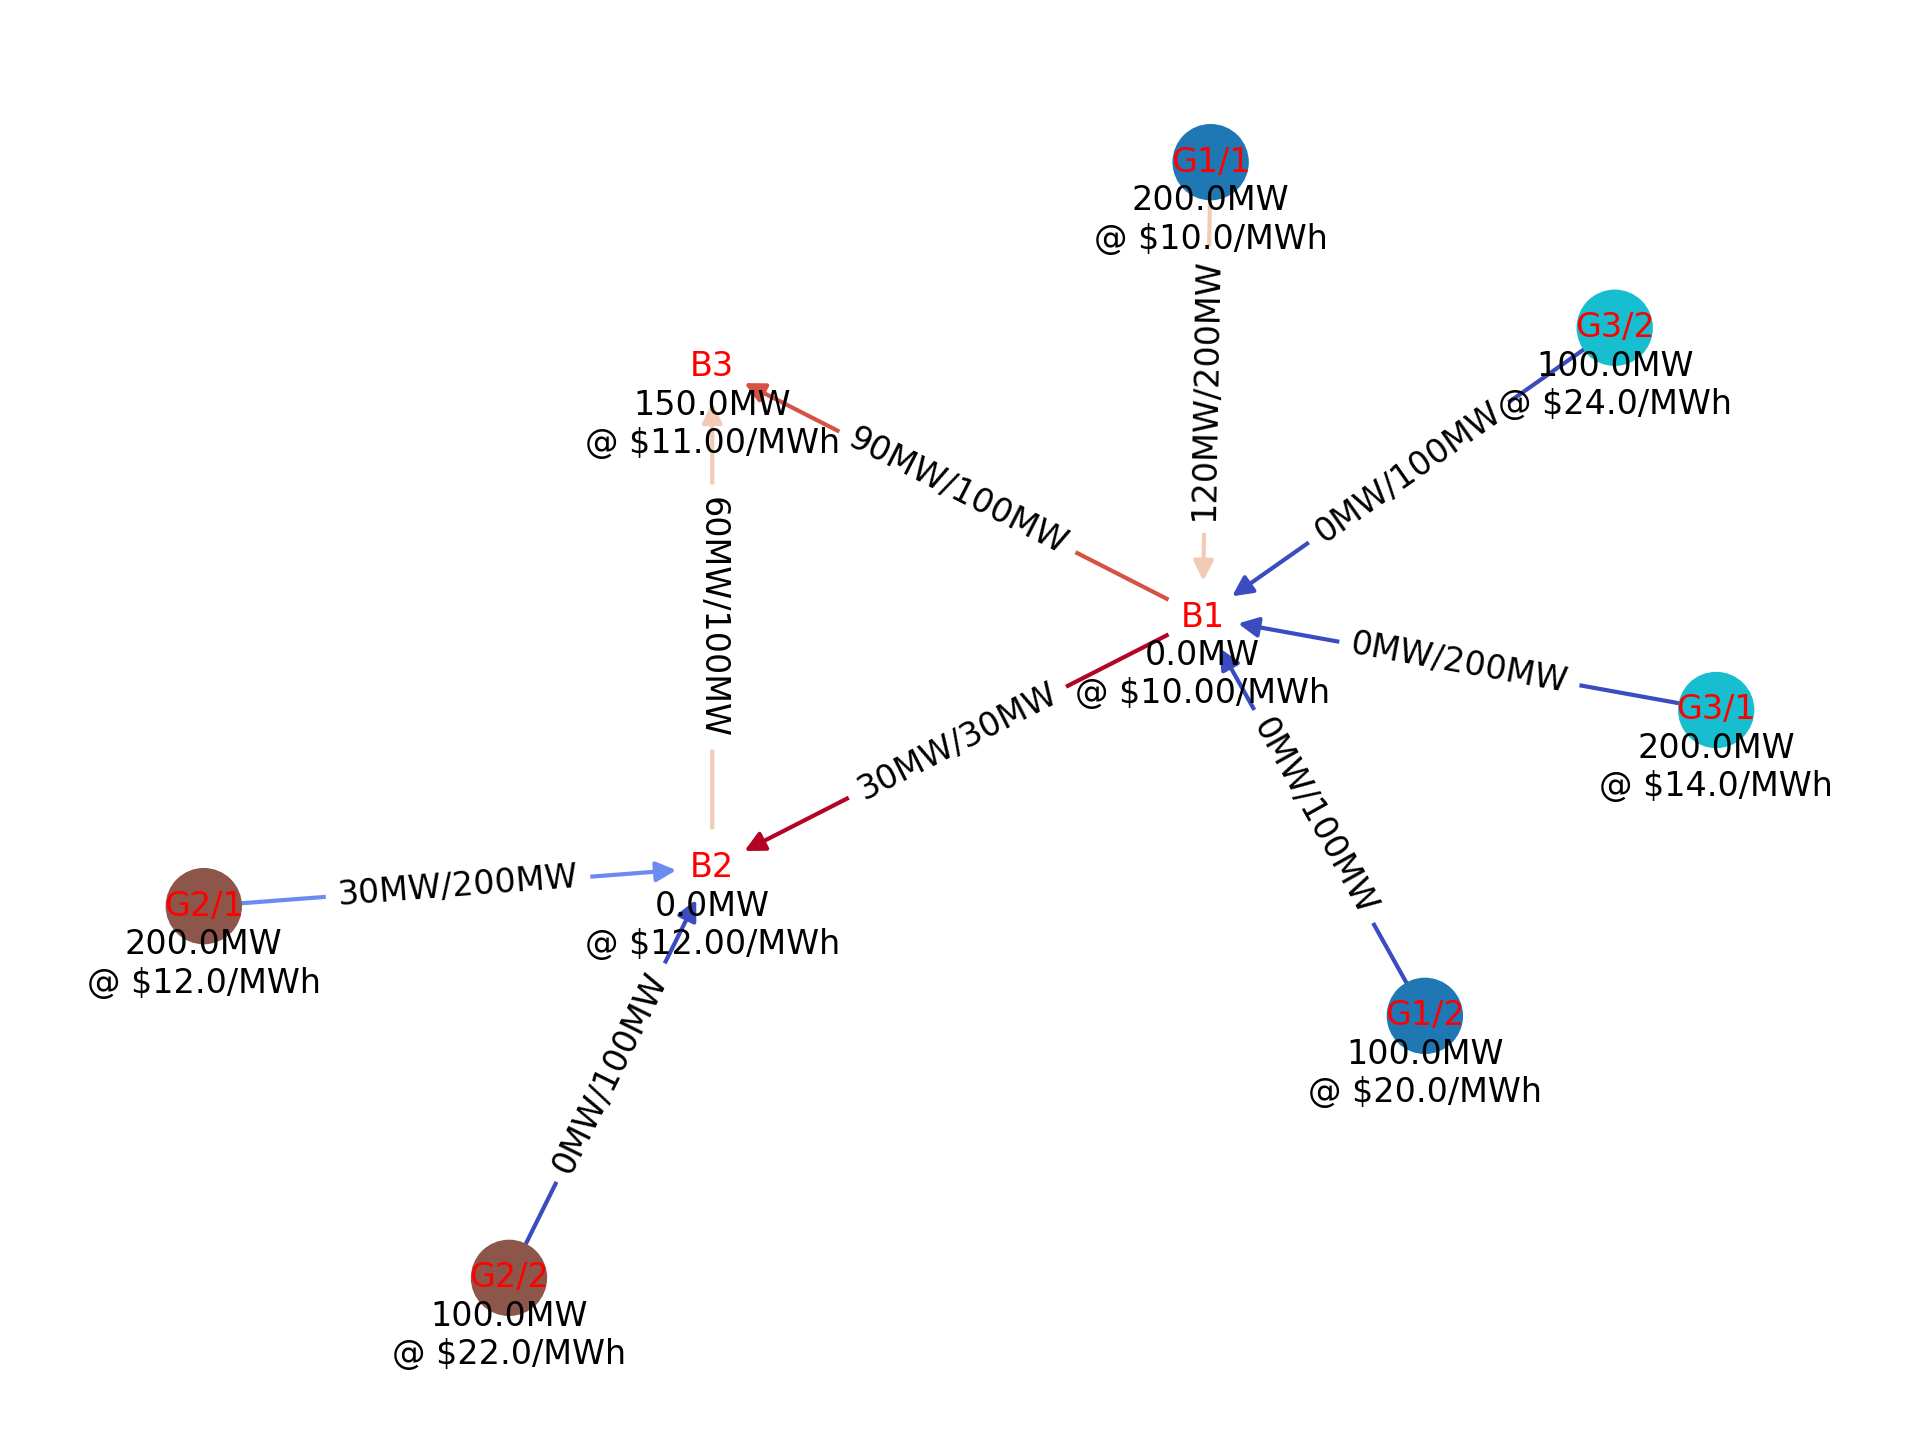
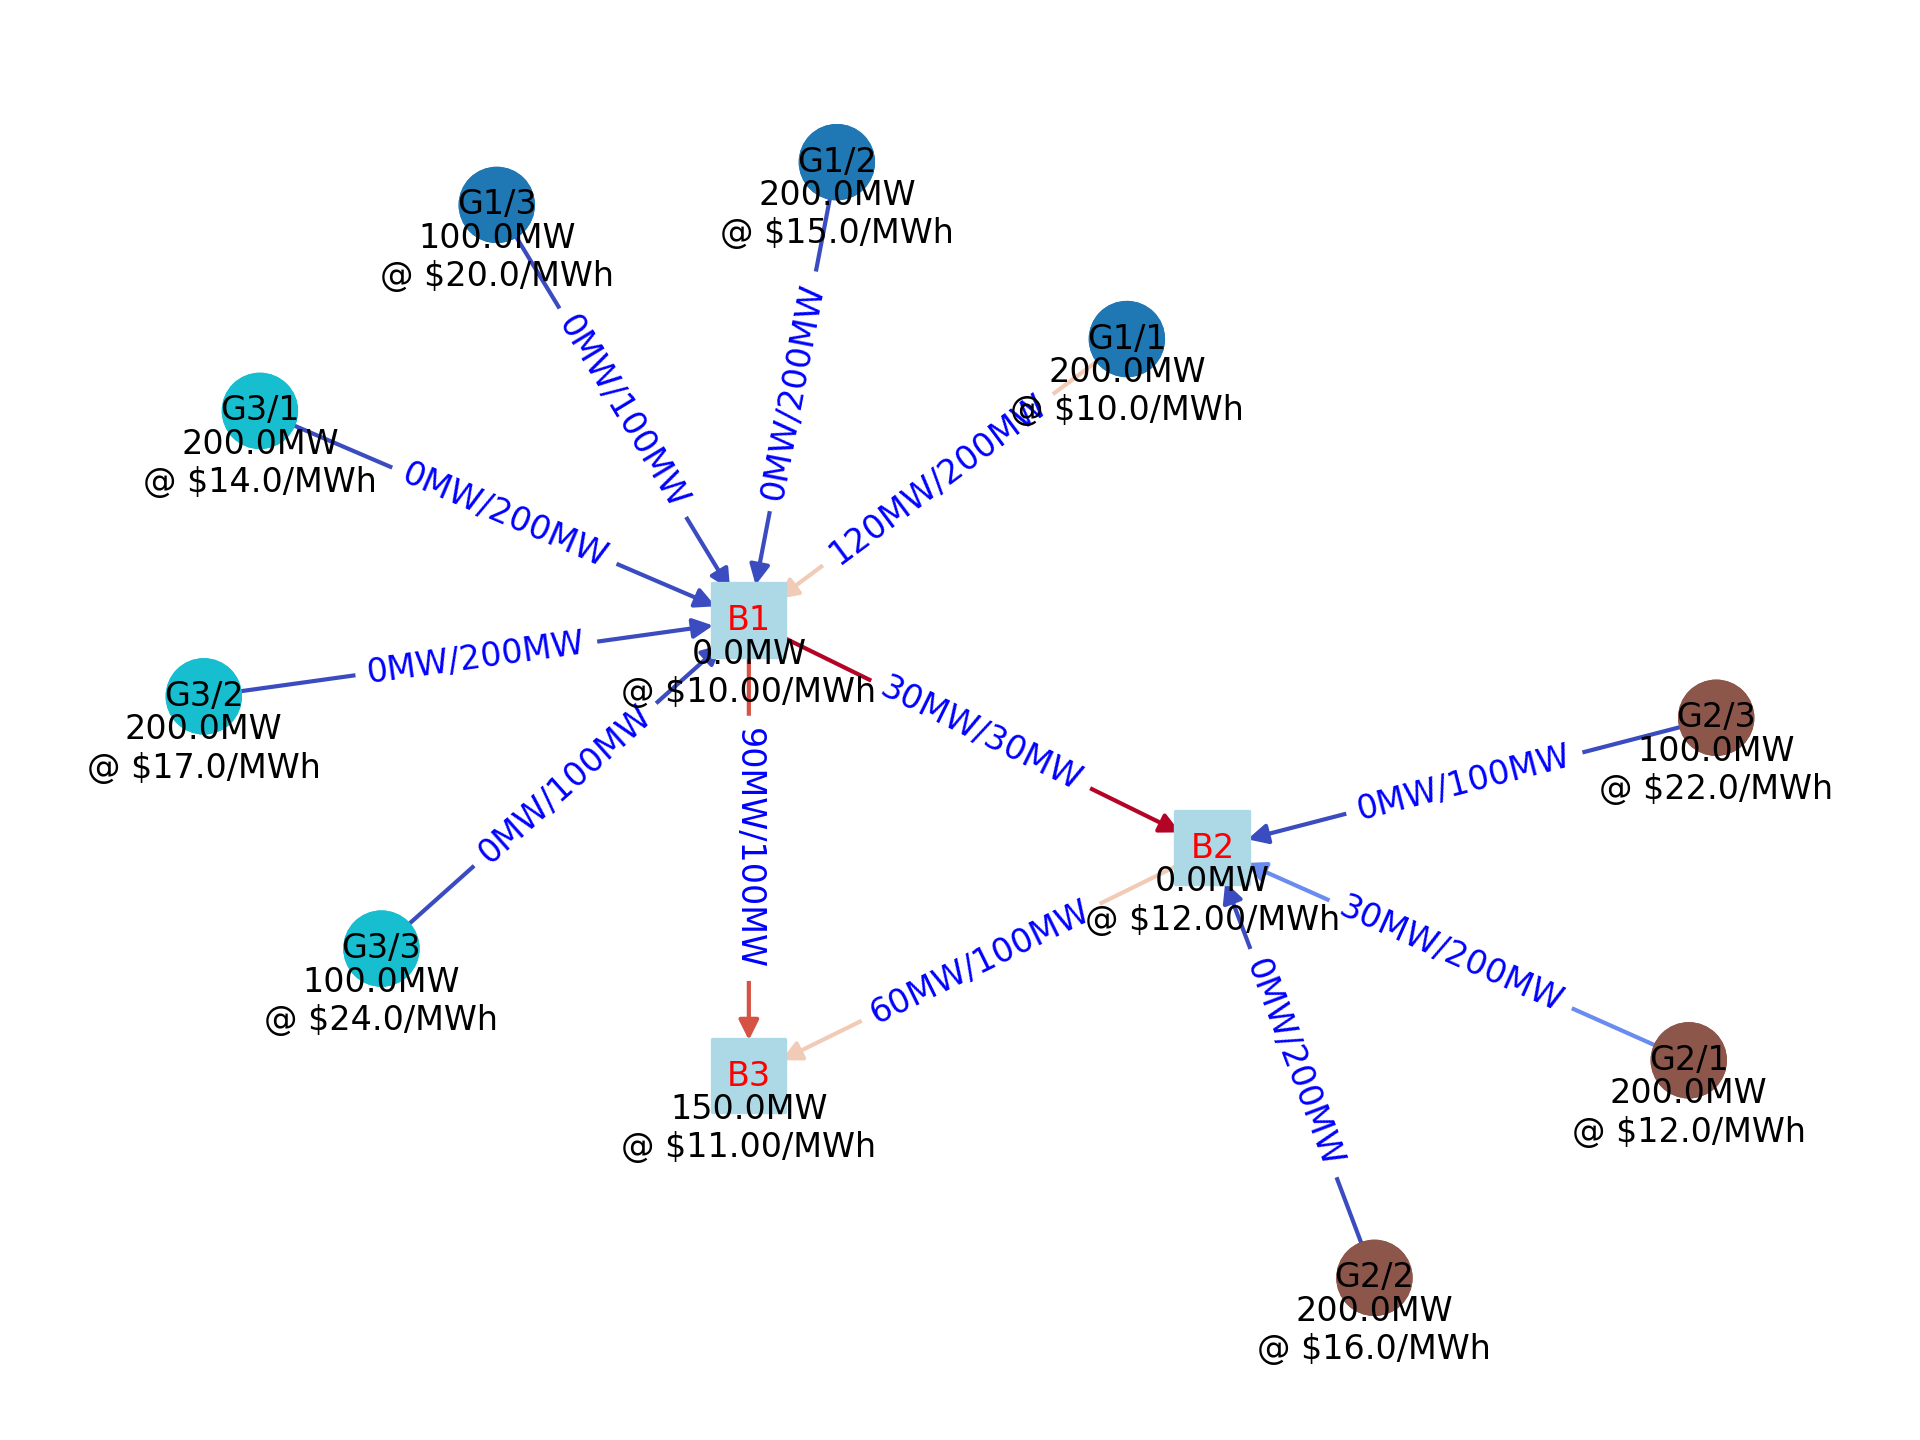
Further refinement

diff --git a/script.py b/script.py
@@ -11,11 +11,11 @@ import pyomo.environ as pyo
 from pyomo.core import Model
 from pyomo.core.expr.relational_expr import EqualityExpression
 
+# Units of measure ===========================================================
 Id: TypeAlias = pl.String
 MW: TypeAlias = pl.Float64
 MWPerRad: TypeAlias = pl.Float64
 USDPerMWh: TypeAlias = pl.Float64
-font_size = 8
 
 # Network data ===============================================================
 buses = pl.DataFrame(
@@ -53,6 +53,9 @@ offers = pl.DataFrame(
         {"generator_id": "G1", "max_quantity": 100.0, "price": 20.00},
         {"generator_id": "G2", "max_quantity": 100.0, "price": 22.00},
         {"generator_id": "G3", "max_quantity": 100.0, "price": 24.00},
+        {"generator_id": "G1", "max_quantity": 200.0, "price": 15.00},
+        {"generator_id": "G2", "max_quantity": 200.0, "price": 16.00},
+        {"generator_id": "G3", "max_quantity": 200.0, "price": 17.00},
     ],
     schema={"id": Id, "generator_id": Id, "max_quantity": MW, "price": USDPerMWh},
 ).sort(by=["generator_id", "price"])
@@ -232,48 +235,32 @@ def hybrid_layout(
     return nx.spring_layout(G, pos=pos, fixed=hubs, seed=seed, k=k)
 
 
-def offset(positions: dict, dx: float, dy: float) -> dict:
-    """To adjust nodal positions"""
-    dxy = np.array([dx, dy])
-    return {id: xy + dxy for id, xy in positions.items()}
-
-
 # Network definition for plotting =============================================
 network = nx.DiGraph()
 
-network.add_nodes_from(buses["id"])
-network.add_nodes_from(offers["id"])
-
-load_norm = mc.Normalize(vmin=min(buses["load"]), vmax=max(buses["load"]))
-load_cmap = cm.coolwarm  # Or plasma, inferno, magma, coolwarm, etc.
-# bus_colors = [load_cmap(load_norm(load)) for load in buses["load"]]
-bus_colors = ["white" for load in buses["load"]]
-
-generator_cmap = plt.get_cmap(name="tab10", lut=generators.height)
-generator_colors = {
-    gid: mc.to_hex(generator_cmap(i)) for i, gid in enumerate(generators["id"])
-}
-offer_colors = [generator_colors[gid] for gid in offers["generator_id"]]
-# offer_colors = ["lightgreen" for gid in offers["generator_id"]]
-
-# bus_color = ["lightblue" for _ in buses["id"]]
-# generator_color = ["lightgreen" for _ in generators["id"]]
-node_color = bus_colors + offer_colors
-
-network.add_edges_from(zip(lines["from_bus_id"], lines["to_bus_id"]))
-network.add_edges_from(zip(offers["id"], offers["node_id"]))
-line_color = lines["utilization"]
-connection_color = offers["utilization"]
-edge_color = [*line_color, *connection_color]
-
+# Node defnition ==============================================================
 bus_price_labels = mapvalues(
     "{:}MW\n@ ${:.2f}/MWh".format, buses["id"], buses["load"], buses["price"]
 )
 offer_price_labels = mapvalues(
     "{:}MW\n@ ${:}/MWh".format, offers["id"], offers["max_quantity"], offers["price"]
 )
+load_norm = mc.Normalize(vmin=min(buses["load"]), vmax=max(buses["load"]))
+load_cmap = cm.coolwarm  # Or plasma, inferno, magma, coolwarm, etc.
+bus_colors = [load_cmap(load_norm(load)) for load in buses["load"]]
+bus_colors = ["lightblue" for load in buses["load"]]
+
+generator_cmap = plt.get_cmap(name="tab10", lut=generators.height)
+generator_colors = {
+    gid: mc.to_hex(generator_cmap(i)) for i, gid in enumerate(generators["id"])
+}
+offer_colors = [generator_colors[gid] for gid in offers["generator_id"]]
+
+network.add_nodes_from(buses["id"])
+network.add_nodes_from(offers["id"])
 node_labels = bus_price_labels | offer_price_labels
 
+# Edge defnition =============================================================
 flow_labels = mapvalues(
     "{:.0f}MW/{:.0f}MW".format,
     zip(lines["from_bus_id"], lines["to_bus_id"]),
@@ -286,49 +273,60 @@ supply_labels = mapvalues(
     offers["supply"],
     offers["max_quantity"],
 )
-line_utilization = lines["flow"].abs() / lines["capacity"]
-connection_utilization = offers["supply"] / offers["max_quantity"]
-edge_utilization = [*line_utilization, *connection_utilization]
+network.add_edges_from(zip(lines["from_bus_id"], lines["to_bus_id"]))
+network.add_edges_from(zip(offers["id"], offers["node_id"]))
+edge_utilization = [*lines["utilization"], *offers["utilization"]]
+edge_labels = flow_labels | supply_labels
 
-multiedge_sep_rad = 0.2
-max_num_offers = (
-    offers.group_by("generator_id")
-    .agg(pl.len().alias("count"))
-    .select(pl.col("count").max())
-    .item()
-)
-connectionstyle = [
-    f"arc3,rad={r}" for r in itertools.accumulate([multiedge_sep_rad] * max_num_offers)
-]
-line_labels = zip(lines["from_bus_id"], lines["to_bus_id"])
-connection_labels = zip(offers["generator_id"], offers["node_id"])
-
+# Network layout =============================================================
 scale = 20.0
-pos = hybrid_layout(network, scale=scale, k=scale * 1.0)
-nx.draw_networkx_nodes(network, pos, node_color=node_color)
-nx.draw_networkx_labels(network, pos, font_size=font_size, font_color="red")
+pos: dict = hybrid_layout(network, scale=scale, k=scale * 1.0)
+
+# Network annotation =========================================================
+font_size = 8
+nx.draw_networkx_nodes(
+    network, pos, nodelist=buses["id"], node_color=bus_colors, node_shape="s"
+)
+nx.draw_networkx_nodes(
+    network, pos, nodelist=offers["id"], node_color=offer_colors, node_shape="o"
+)
 nx.draw_networkx_labels(
     network,
-    offset(pos, 0, -0.2 * scale),
+    pos,
+    labels={id: id for id in buses["id"]},
+    font_size=font_size,
+    font_color="red",
+)
+nx.draw_networkx_labels(
+    network,
+    pos,
+    labels={id: id for id in offers["id"]},
+    font_size=font_size,
+    font_color="black",
+)
+nx.draw_networkx_labels(
+    network,
+    {id: xy + [0, -0.2 * scale] for id, xy in pos.items()},
     labels=node_labels,
     font_size=font_size,
 )
 nx.draw_networkx_edges(
     network,
     pos,
-    edge_color=edge_color,
+    edge_color=edge_utilization,
     edge_cmap=cm.coolwarm,
     edge_vmin=0.0,
     edge_vmax=1.0,
 )
-
 nx.draw_networkx_edge_labels(
     network,
     pos,
-    edge_labels=flow_labels | supply_labels,
+    edge_labels=edge_labels,
     font_size=font_size,
+    font_color="blue",
 )
 
+# Display network ============================================================
 plt.axis("off")
 plt.tight_layout()
 plt.savefig("network.png", dpi=300)
